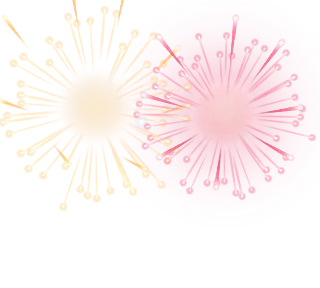
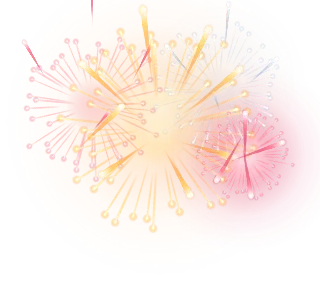
WIP (content agent): effects v3/v4 final checks
Claude-Session: https://claude.ai/code/session_01CsFEdfga1NVSso6TsM8PXG

diff --git a/kahvehane/game/src/ui/fxlib.ts b/kahvehane/game/src/ui/fxlib.ts
@@ -332,17 +332,17 @@ function havai(s: Stage, at: Pt, jack: boolean): void {
 function yildiz(s: Stage, at: Pt, jack: boolean): void {
   const m = s.M / 100, W = s.W, H = s.H;
   s.night(0.55, jack ? 2100 : 1850);
-  const n = s.low ? 4 : jack ? 8 : 7;
+  const n = s.low ? 4 : 8;
   const L = 80 * m;
   const angs = [118, 72, 132, 96, 60, 108, 84, 140];
   let last = 0;
   for (let i = 0; i < n; i++) {
     const ang = angs[i % angs.length] + R(-4, 4), rad = (ang * Math.PI) / 180;
-    const t = 40 + (i * (jack ? 600 : 560)) / (n - 1) + R(-15, 15);
+    const t = 40 + (i * (jack ? 560 : 480)) / (n - 1) + R(-15, 15);
     const tx = at.x + R(-12, 12) * m, ty = at.y + R(-10, 4) * m;
     const dist = Math.min(Math.hypot(W, H) * 0.5, 110 * m);
     const x0 = tx - Math.cos(rad) * dist, y0 = ty - Math.sin(rad) * dist;
-    const D = R(380, 440);
+    const D = R(440, 520);
     last = Math.max(last, t + D);
     const path = (q: number): [number, number] => [x0 + (tx - x0) * q, y0 + (ty - y0) * q];
     const nd = s.node('meteor', L);
@@ -647,4 +647,4 @@ export const FX: Record<string, (s: Stage, at: Pt, jack: boolean) => void> = {kl
 /** Efektin toplam süresi (ms; önizleme döngüsü / temizlik için) */
 export const FX_MS: Record<string, number> = {klasik: 1700, altin: 2100, havai: 1950, yildiz: 2000, simsek: 1500, lale: 1950, nazar: 2000, tac: 1900, girdap: 1800};
 /** Donmuş küçük resim için en güzel an (ms) */
-export const FX_STILL: Record<string, number> = {klasik: 420, altin: 1000, havai: 1060, yildiz: 1220, simsek: 300, lale: 470, nazar: 470, tac: 760, girdap: 620};
+export const FX_STILL: Record<string, number> = {klasik: 640, altin: 1000, havai: 1060, yildiz: 1220, simsek: 300, lale: 470, nazar: 470, tac: 760, girdap: 620};
